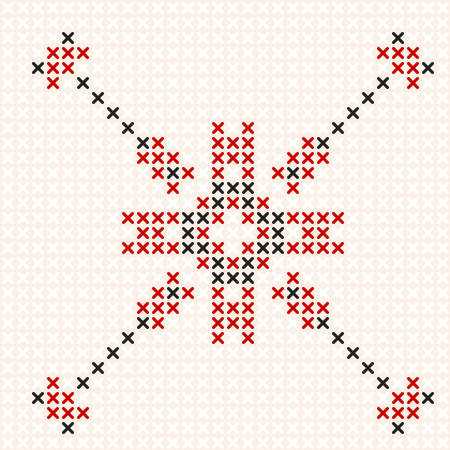
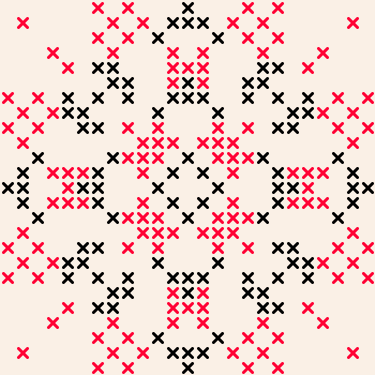
add default canvas with name embroidery

diff --git a/src/main/java/ua/university/MainUI.java b/src/main/java/ua/university/MainUI.java
@@ -3,6 +3,7 @@ package ua.university;
 import javax.swing.*;
 import javax.swing.filechooser.FileNameExtensionFilter;
 import java.awt.*;
+import java.awt.event.ActionEvent;
 import java.io.File;
 
 public class MainUI extends UI{
@@ -33,7 +34,6 @@ public class MainUI extends UI{
 
     }
     public void addButtons() {
-        System.out.println("fhld");
         appPanel.add(exit, 0);
         appPanel.add(newCanvas, 0);
         appPanel.add(loadFile, 0);
@@ -49,14 +49,18 @@ public class MainUI extends UI{
     private void showSizeChooser(JFrame jFrame) {
         SpinnerNumberModel widthModel = new SpinnerNumberModel(30, 5, 50, 5);
         SpinnerNumberModel heightModel = new SpinnerNumberModel(30, 5, 50, 5);
-
         JSpinner widthSpinner = new JSpinner(widthModel);
         JSpinner heightSpinner = new JSpinner(heightModel);
-        JPanel panel = new JPanel(new GridLayout(2, 2, 5, 10));
+        JButton defaultButton = new JButton("Полотно за замовчуванням");
+
+        JPanel panel = new JPanel(new GridLayout(3, 2, 5, 10));
+        defaultButton.addActionListener(this::defaultCanvas);
         panel.add(new JLabel("Ширина (5-50):"));
         panel.add(widthSpinner);
         panel.add(new JLabel("Висота (5-50):"));
         panel.add(heightSpinner);
+        panel.add(new JLabel(""));
+        panel.add(defaultButton);
         int result = JOptionPane.showConfirmDialog(
                 jFrame,
                 panel,
@@ -92,4 +96,13 @@ public class MainUI extends UI{
         }
 
     }
+    private void defaultCanvas(ActionEvent e){
+        appPanel.setUpCanvas("src/main/saves/AngelinaEmbroidery.png");
+        goToApp();
+        Component component = (Component) e.getSource();
+        Window window = SwingUtilities.getWindowAncestor(component);
+
+        if (window != null) {
+            window.dispose();
+    }}
 }

diff --git a/src/main/java/ua/university/Embroidery.java b/src/main/java/ua/university/Embroidery.java
@@ -109,12 +109,12 @@ public class Embroidery {
     private void drawStitches(int startX, int startY,  Graphics2D g2) {
         g2.setRenderingHint(RenderingHints.KEY_ANTIALIASING, RenderingHints.VALUE_ANTIALIAS_ON);
         g2.setStroke(new BasicStroke(stitchOffset, BasicStroke.CAP_ROUND, BasicStroke.JOIN_ROUND));
-        for(int i=0; i<height; i++){
-            for(int j=0; j<width; j++){
-                if(canvas[i][j]!=null)
-                    drawStitch(startX+j*stitchSize, startY+i*stitchSize, stitchSize, canvas[i][j], g2);
+            for(int i=0; i<height; i++){
+                for(int j=0; j<width; j++){
+                    if(canvas[i][j]!=null)
+                        drawStitch(startX+j*stitchSize, startY+i*stitchSize, stitchSize, canvas[i][j], g2);
+                }
             }
-        }
     }
 
     public void drawCanvas(int x, int y, Graphics2D g2){

diff --git a/src/main/java/ua/university/AppUI.java b/src/main/java/ua/university/AppUI.java
@@ -162,7 +162,6 @@ public class AppUI extends UI {
         filePanel.add(saveToFile,0);
         filePanel.add(enterFileNameLabel);
         filePanel.add(backToMenu);
-        System.out.println("appui");
         appFrame.revalidate();
         appFrame.repaint();
     }